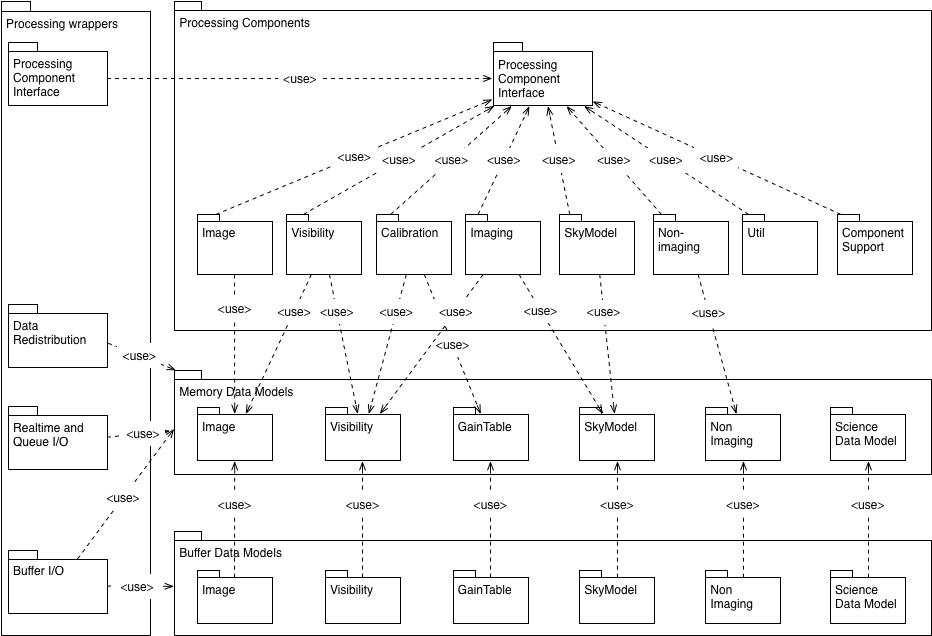
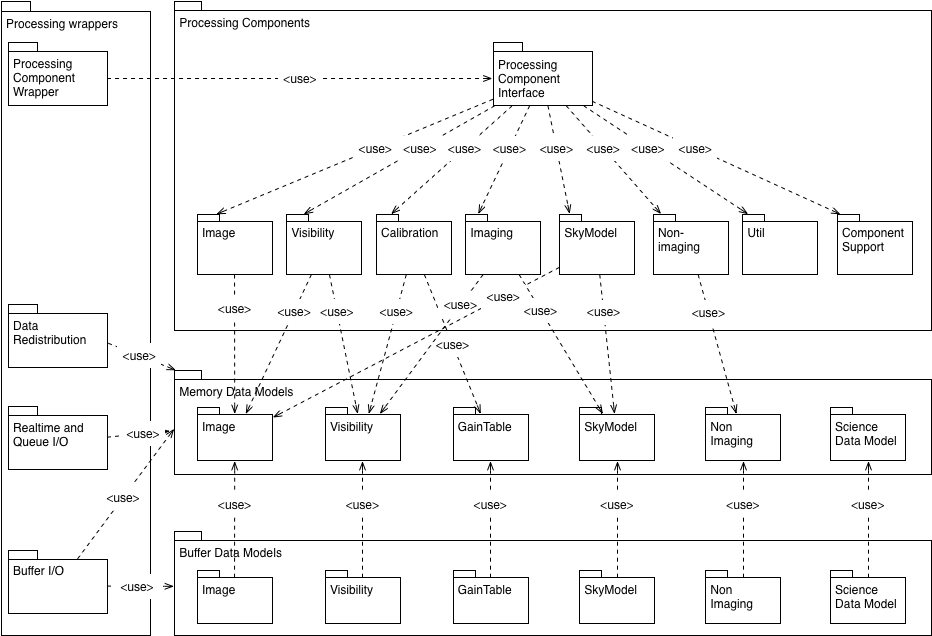
Renaming
processing_components/component_support->libs/execution support
util->simulation

generic functions moved to image_components and visibility_components

diff --git a/tests/processing_components/test_calskymodel.py b/tests/processing_components/test_calskymodel.py
@@ -12,7 +12,7 @@ from astropy.coordinates import SkyCoord
 from data_models.polarisation import PolarisationFrame
 from data_models.memory_data_models import SkyModel
 
-from processing_components.component_support.arlexecute import arlexecute
+from libs.execution_support.arlexecute import arlexecute
 
 from processing_components.calibration.operations import apply_gaintable, create_gaintable_from_blockvisibility
 from processing_components.calibration.calskymodel import calskymodel_solve
@@ -22,7 +22,7 @@ from processing_components.imaging.base import predict_skycomponent_visibility, 
 from processing_components.imaging.imaging_functions import invert_function
 from processing_components.imaging.weighting import weight_visibility
 from processing_components.skycomponent.operations import apply_beam_to_skycomponent, find_skycomponent_matches
-from processing_components.util.testing_support import create_named_configuration, simulate_gaintable, \
+from simulation.testing_support import create_named_configuration, simulate_gaintable, \
     create_low_test_skycomponents_from_gleam, create_low_test_beam
 from processing_components.visibility.base import copy_visibility, create_blockvisibility
 from processing_components.visibility.coalesce import convert_blockvisibility_to_visibility

diff --git a/tests/processing_components/test_generic_components.py b/tests/processing_components/test_generic_components.py
@@ -15,13 +15,12 @@ from libs.image.iterators import image_raster_iter
 
 from processing_components.imaging.base import predict_skycomponent_visibility
 from processing_components.skycomponent.operations import create_skycomponent
-from processing_components.util.testing_support import create_named_configuration, create_test_image
+from simulation.testing_support import create_named_configuration, create_test_image
 from processing_components.visibility.base import create_blockvisibility
 
-from processing_components.component_support.arlexecute import arlexecute
-from processing_components.component_support.generic_components import generic_blockvisibility_component, \
-    generic_image_component, \
-    generic_image_iterator_component
+from libs.execution_support.arlexecute import arlexecute
+from processing_components.image.image_components import generic_image_iterator_component, generic_image_component
+from processing_components.visibility.visibility_components import generic_blockvisibility_component
 
 
 class TestPipelinesGenericDask(unittest.TestCase):

diff --git a/tests/processing_components/test_calskymodel_component.py b/tests/processing_components/test_calskymodel_component.py
@@ -19,12 +19,12 @@ from processing_components.imaging.base import predict_skycomponent_visibility, 
 from processing_components.imaging.imaging_functions import invert_function
 from processing_components.imaging.weighting import weight_visibility
 from processing_components.skycomponent.operations import apply_beam_to_skycomponent
-from processing_components.util.testing_support import create_named_configuration, simulate_gaintable, \
+from simulation.testing_support import create_named_configuration, simulate_gaintable, \
     create_low_test_skycomponents_from_gleam, create_low_test_beam
 from processing_components.visibility.base import copy_visibility, create_blockvisibility
 from processing_components.visibility.coalesce import convert_blockvisibility_to_visibility
 
-from processing_components.component_support.arlexecute import arlexecute
+from libs.execution_support.arlexecute import arlexecute
 from processing_components.calibration.calskymodel_components import calskymodel_solve_component
 
 log = logging.getLogger(__name__)

diff --git a/tests/processing_components/test_imaging.py b/tests/processing_components/test_imaging.py
@@ -12,14 +12,14 @@ from astropy import units as u
 from astropy.coordinates import SkyCoord
 
 from data_models.polarisation import PolarisationFrame
-from processing_components.component_support.arlexecute import arlexecute
+from libs.execution_support.arlexecute import arlexecute
 from processing_components.image.operations import export_image_to_fits, smooth_image
 from processing_components.imaging.base import predict_skycomponent_visibility
 from processing_components.imaging.imaging_components import zero_vislist_component, predict_component, \
     invert_component, subtract_vislist_component
 from processing_components.skycomponent.operations import find_skycomponents, find_nearest_skycomponent, \
     insert_skycomponent
-from processing_components.util.testing_support import create_named_configuration, ingest_unittest_visibility, \
+from simulation.testing_support import create_named_configuration, ingest_unittest_visibility, \
     create_unittest_model, \
     insert_unittest_errors, create_unittest_components
 

diff --git a/tests/data_models/test_buffer_data_models.py b/tests/data_models/test_buffer_data_models.py
@@ -11,13 +11,13 @@ import numpy
 from astropy.coordinates import SkyCoord
 
 from data_models.buffer_data_models import BufferImage, BufferBlockVisibility, BufferGainTable, BufferSkyModel
-from data_models.memory_data_models import Skycomponent, SkyModel, BlockVisibility, Image
+from data_models.memory_data_models import Skycomponent, SkyModel, BlockVisibility
 from data_models.polarisation import PolarisationFrame
 from processing_components.calibration.operations import create_gaintable_from_blockvisibility
 from processing_components.imaging.base import predict_skycomponent_visibility
-from processing_components.util.testing_support import create_named_configuration, \
+from simulation.testing_support import create_named_configuration, \
     simulate_gaintable, create_test_image
-from processing_components.visibility.base import create_visibility, create_blockvisibility
+from processing_components.visibility.base import create_blockvisibility
 
 
 class TestBufferDataModelHelpers(unittest.TestCase):

diff --git a/tests/processing_components/test_pipelines_component.py b/tests/processing_components/test_pipelines_component.py
@@ -14,12 +14,12 @@ from astropy.coordinates import SkyCoord
 from data_models.polarisation import PolarisationFrame
 
 from processing_components.calibration.calibration_control import create_calibration_controls
-from processing_components.component_support.arlexecute import arlexecute
+from libs.execution_support.arlexecute import arlexecute
 from processing_components.pipelines.pipeline_components import ical_component, continuum_imaging_component
 from processing_components.image.operations import export_image_to_fits, qa_image, smooth_image
 from processing_components.imaging.base import predict_skycomponent_visibility
 from processing_components.skycomponent.operations import insert_skycomponent
-from processing_components.util.testing_support import create_named_configuration, ingest_unittest_visibility, \
+from simulation.testing_support import create_named_configuration, ingest_unittest_visibility, \
     create_unittest_model, \
     create_unittest_components, insert_unittest_errors
 

diff --git a/tests/processing_components/test_imaging_components.py b/tests/processing_components/test_imaging_components.py
@@ -15,9 +15,9 @@ from data_models.polarisation import PolarisationFrame
 from processing_components.image.operations import export_image_to_fits, smooth_image
 from processing_components.imaging.base import predict_skycomponent_visibility
 from processing_components.skycomponent.operations import find_skycomponents, find_nearest_skycomponent, insert_skycomponent
-from processing_components.util.testing_support import create_named_configuration, ingest_unittest_visibility, create_unittest_model, \
+from simulation.testing_support import create_named_configuration, ingest_unittest_visibility, create_unittest_model, \
     insert_unittest_errors, create_unittest_components
-from processing_components.component_support.arlexecute import arlexecute
+from libs.execution_support.arlexecute import arlexecute
 from processing_components.imaging.imaging_components import zero_vislist_component, predict_component, \
     invert_component, subtract_vislist_component
 

diff --git a/tests/processing_components/test_imaging_deconvolve_component.py b/tests/processing_components/test_imaging_deconvolve_component.py
@@ -15,11 +15,11 @@ from data_models.polarisation import PolarisationFrame
 
 from processing_components.imaging.imaging_components import invert_component, deconvolve_component, \
     residual_component, restore_component
-from processing_components.component_support.arlexecute import arlexecute
+from libs.execution_support.arlexecute import arlexecute
 from processing_components.image.operations import export_image_to_fits, smooth_image
 from processing_components.imaging.base import predict_skycomponent_visibility
 from processing_components.skycomponent.operations import insert_skycomponent
-from processing_components.util.testing_support import create_named_configuration, ingest_unittest_visibility, \
+from simulation.testing_support import create_named_configuration, ingest_unittest_visibility, \
     create_unittest_model, create_unittest_components, insert_unittest_errors
 
 log = logging.getLogger(__name__)

diff --git a/tests/processing_components/test_testing_support.py b/tests/processing_components/test_testing_support.py
@@ -15,7 +15,7 @@ from data_models.memory_data_models import Skycomponent
 from data_models.polarisation import PolarisationFrame
 from processing_components.image.operations import export_image_to_fits
 from processing_components.imaging.base import predict_skycomponent_visibility
-from processing_components.util.testing_support import create_test_image_from_s3, create_named_configuration, \
+from simulation.testing_support import create_test_image_from_s3, create_named_configuration, \
     create_test_image, create_low_test_beam, create_blockvisibility_iterator, create_low_test_image_from_gleam, \
     create_low_test_skycomponents_from_gleam
 from processing_components.visibility.base import create_visibility, create_blockvisibility

diff --git a/tests/processing_components/test_calibration_solvers.py b/tests/processing_components/test_calibration_solvers.py
@@ -15,7 +15,7 @@ from data_models.polarisation import PolarisationFrame
 from processing_components.calibration.operations import apply_gaintable, create_gaintable_from_blockvisibility, gaintable_summary, \
     qa_gaintable
 from processing_components.calibration.calibration import solve_gaintable
-from processing_components.util.testing_support import create_named_configuration, simulate_gaintable
+from simulation.testing_support import create_named_configuration, simulate_gaintable
 from processing_components.visibility.operations import divide_visibility
 from processing_components.visibility.base import copy_visibility, create_blockvisibility
 from processing_components.imaging.base import predict_skycomponent_visibility

diff --git a/tests/processing_components/test_calibration_context.py b/tests/processing_components/test_calibration_context.py
@@ -15,7 +15,7 @@ from data_models.polarisation import PolarisationFrame
 from processing_components.calibration.calibration_control import calibrate_function, create_calibration_controls, apply_gaintable
 from processing_components.calibration.operations import create_gaintable_from_blockvisibility, gaintable_summary
 from processing_components.imaging.base import predict_skycomponent_visibility
-from processing_components.util.testing_support import create_named_configuration, simulate_gaintable
+from simulation.testing_support import create_named_configuration, simulate_gaintable
 from processing_components.visibility.base import copy_visibility, create_blockvisibility
 
 log = logging.getLogger(__name__)

diff --git a/tests/processing_components/test_pipelines_functions.py b/tests/processing_components/test_pipelines_functions.py
@@ -19,7 +19,7 @@ from processing_components.image.operations import copy_image, create_empty_imag
 from processing_components.imaging.base import predict_skycomponent_visibility, \
     create_image_from_visibility
 from processing_components.skycomponent.operations import create_skycomponent, insert_skycomponent
-from processing_components.util.testing_support import create_named_configuration, simulate_gaintable
+from simulation.testing_support import create_named_configuration, simulate_gaintable
 from processing_components.visibility.base import create_blockvisibility, create_visibility
 
 from processing_components.functions.pipeline_functions import rcal
